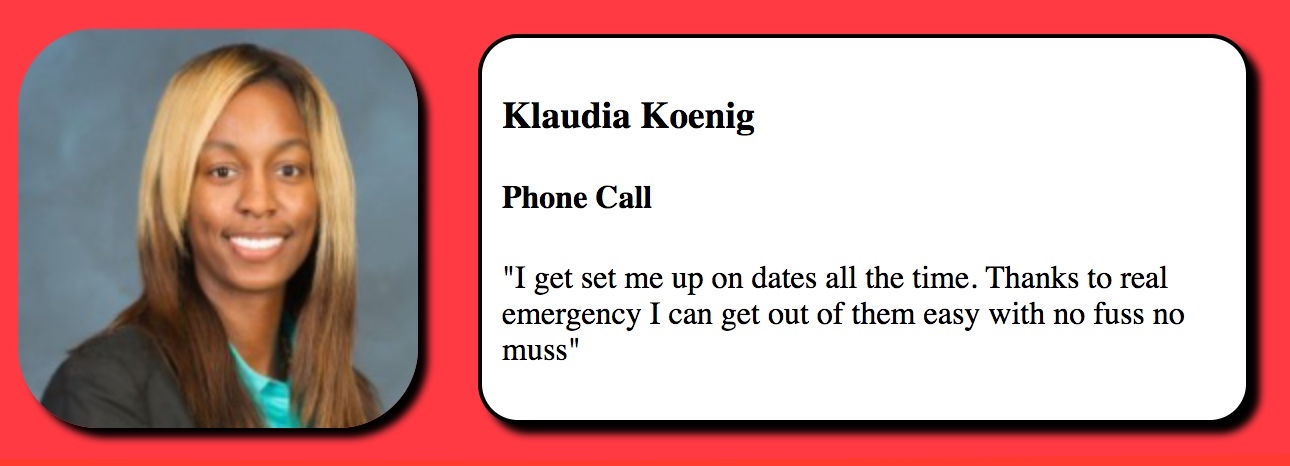
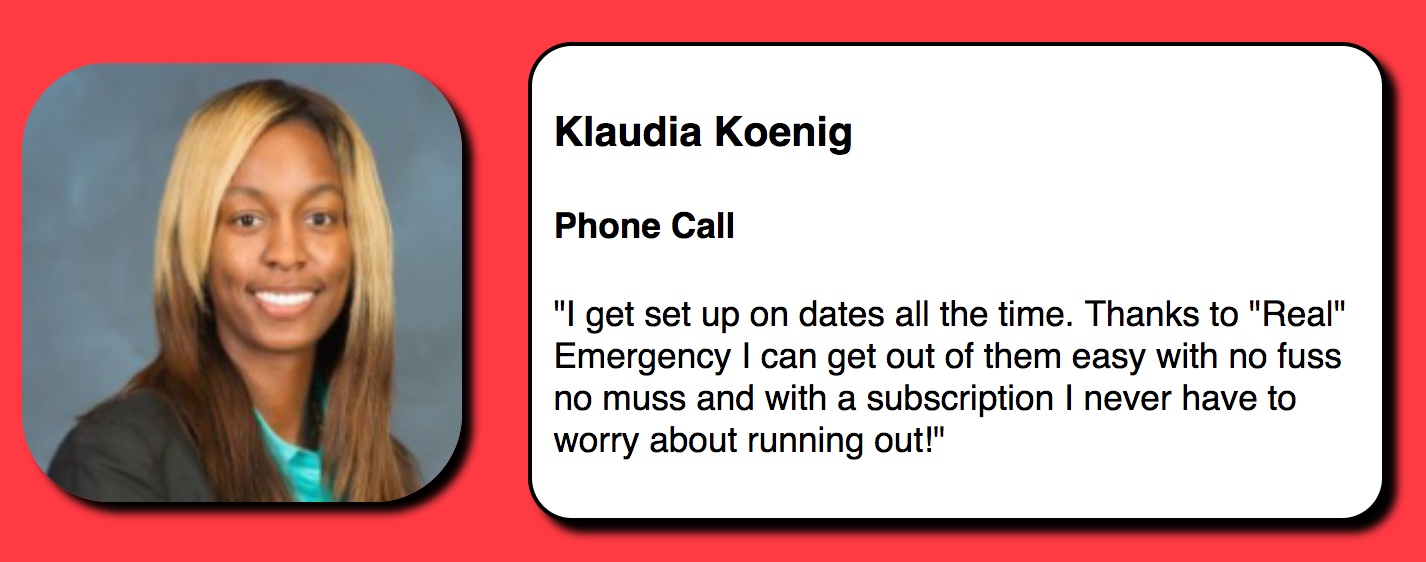
semi final version of style and validation

diff --git a/testimonials/testimonials.html b/testimonials/testimonials.html
@@ -6,6 +6,7 @@
   <title>Testimonials</title>
   <link rel="stylesheet" href="css/testimonials.css">
   <link rel="stylesheet" href="../../styles.css">
+  <link href="https://fonts.googleapis.com/css?family=Play" rel="stylesheet">
 </head>
 <header>
   <ul id="nav">    
@@ -19,9 +20,8 @@
   </section>
     
     <section class="slideshow-container" alt="testimonial slideshow">
-
+        <!-- Slideshow gets injected here -->
     </section>
-<hr>
 <section class="wrap">
     <section class ="form-container">
       <section class ="form-heading">
@@ -36,19 +36,19 @@
               <label for="description">Tell us your story</label>
               <input class="inputbox" type="text" name="description" required><br>
               <input class="submitButton" type="submit" value="Submit your story!" onclick="clicker()">
-            </form>
-      </section>
-    </section>
-    <div id="snackbar">1</div>
-  </section>
+            </form> <!-- End of form -->
+       </section>  <!-- End of form section-->
+    </section> <!-- End of form container-->
+  </section>  <!-- End of wrap-->
+  <div id="snackbar">Please correct errors and try again!</div>
 <footer>
       <p>Contact Us! Phone: 1-800-555-REAL Email: <a href="mailto:example@email.com">RealEmergencies@gmail.com</a></p>
 </footer> 
    
          
-  <script src="/js/testimonials-factory.js"></script>
-  <script src="/js/testimonials-controller.js"></script>
-  <script src="/js/testimonials-slideshow.js"></script>
-  <script src="/js/testimonials-validate.js"></script>
+  <script src="/js/testimonials-factory.js"></script>  <!--Creates Data for slideshow-->
+  <script src="/js/testimonials-controller.js"></script> <!--Creates Data for slideshow-->
+  <script src="/js/testimonials-slideshow.js"></script> <!--Slideshow logic-->
+  <script src="/js/testimonials-validate.js"></script> <!--Checks if form is filled out-->
 </body>
 </html>

diff --git a/testimonials/css/testimonials.css b/testimonials/css/testimonials.css
@@ -2,6 +2,9 @@ body {
   background-color: rgba(255,0,0,.8);
   margin: 0;
 }
+h2 {
+  font-family: 'Play', sans-serif;  
+}
 .pageBanner {
   padding-top:10px;
   text-align: center;
@@ -79,11 +82,13 @@ hr {
   width: auto;
 }
 .form-heading {
-  padding-bottom: 5px;
-  background-color: white;
+  padding-bottom: 1px; /* push the form header away from the form slightly */
+  background-color: #f3eeee;
   align-items: stretch;
   width:100%;
   text-align: center;
+  border-top-left-radius:18px;
+  border-top-right-radius:18px;
 }
 .submission-form {
   align-items:center;
@@ -100,7 +105,14 @@ hr {
 
 .submitButton {
  width:200px;
- margin:12px;
+ height:30px;
+ margin-left:15px;
+ margin-top:10px;
+ margin-bottom:10px;
+ background-color:white;
+ border-radius: 5px;
+ font-family: 'Play', sans-serif;
+ 
 }
 
 
@@ -162,16 +174,22 @@ label, input {
 }
 
 label {
-  width: 30%;
+  width: 100%;
   /* positions the label text beside the input */
-  text-align: right;
+  text-align:left;
+  padding-top:10px;
+  color:white;
+  font-family: 'Play', sans-serif;
+  
 }
 
 label + input {
-  width: 30%;
+  width: 100%;
   /* large margin-right to force the next element to the new-line
      and margin-left to create a gutter between the label and input */
   margin: 0 30% 0 4%;
+  height:30px;
+
 }
 
 /* only the submit button is matched by this selector,

diff --git a/testimonials/js/testimonials-validate.js b/testimonials/js/testimonials-validate.js
@@ -5,9 +5,8 @@ function clicker() {
     let checkDescrip = document.forms["submission-form"]["description"].value;
 
     if (checkName == "" || checkMail == "" || checkDescrip =="") {
-        return false;
-    }else {
         clickershow();
+        return false;
     }
 }
 function clickershow() {
